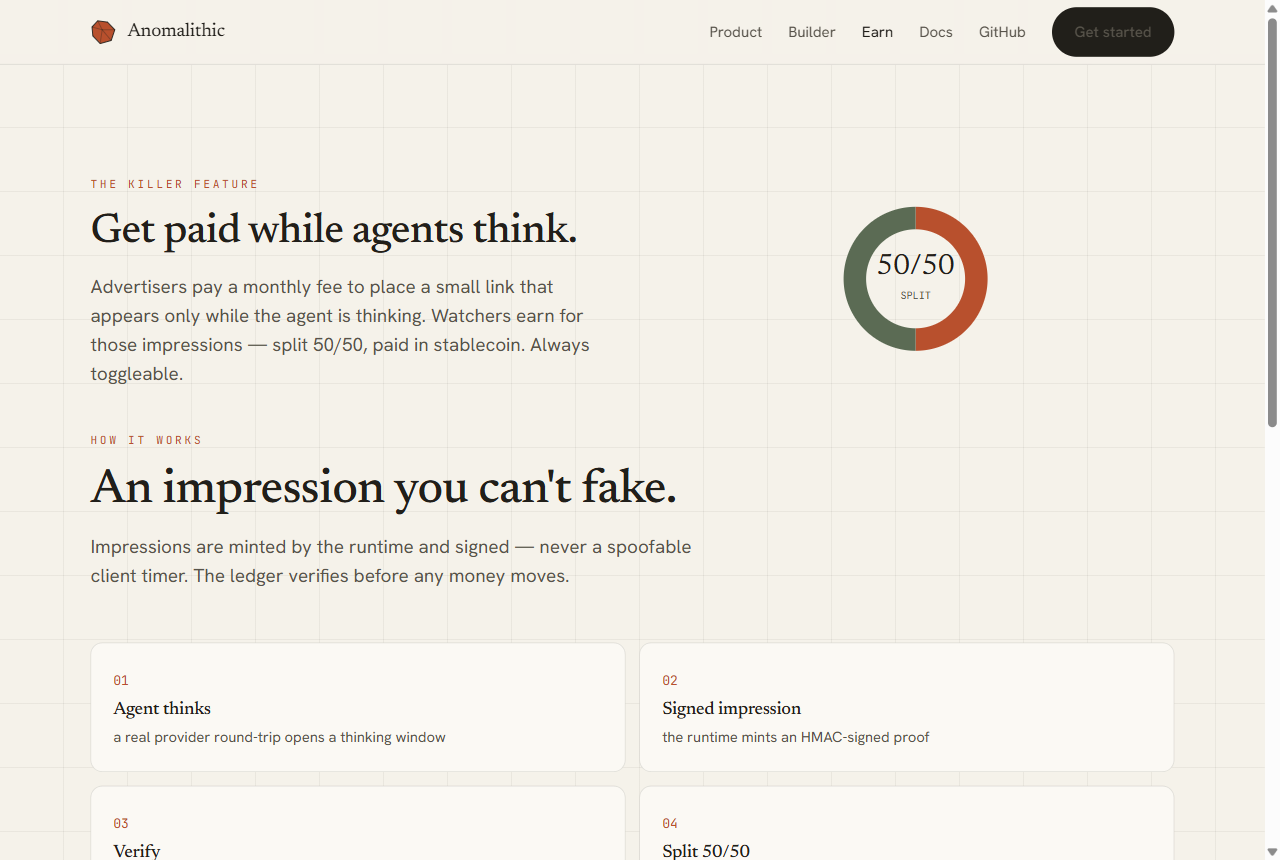
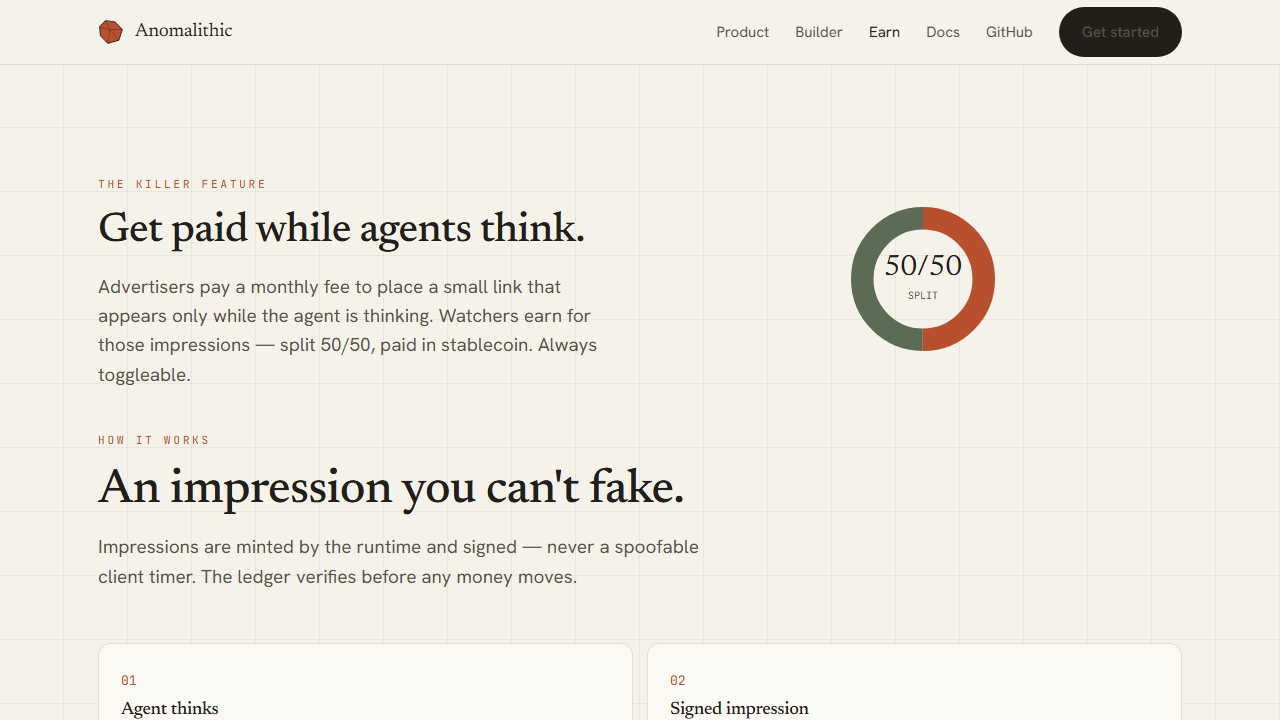
docs: real product screenshots + desktop section in README
- 6 Playwright screenshots captured from live site and local desktop app
  (home, product, builder, earn, docs, desktop) → docs/media/
- README: added desktop app section with screenshot, updated platforms list
- README: updated CLI demo block to show real verified output (Gemini + serve)
- Added scripts/screenshot.mjs for reproducible screenshot capture

diff --git a/README.md b/README.md
@@ -68,12 +68,18 @@ The product, running — a quiet ad shows only during the thinking window, and e
 window mints one signed impression:
 
 ```console
-$ anomalithic run "explain MCP" --ads
+$ anomalithic run -p google "explain MCP in one sentence" --ads
 ✦ thinking…
 💡 Your ad here while agents think — https://anomalithic.vercel.app/ads
-MCP is an open protocol that lets agents call external tools and data
-sources over a uniform JSON-RPC interface.
-[anthropic:claude-sonnet-4-6] 1 turn(s), 10+5 tokens, 1 impression(s)
+MCP (Model Context Protocol) is an open standard that lets AI agents
+call external tools and data sources over a uniform JSON-RPC interface.
+[google:gemini-2.5-flash] 1 turn(s), 12+8 tokens, 1 impression(s)
+
+$ anomalithic serve -p mock
+Anomalithic serve · http://127.0.0.1:4517 · mock:mock
+
+$ curl -s http://127.0.0.1:4517/health
+{"ok":true,"provider":"mock","model":"mock"}
 ```
 
 ## ✦ Quickstart
@@ -94,12 +100,17 @@ ANOMALITHIC_PROVIDER=openai OPENAI_BASE_URL=http://localhost:11434/v1 \
   node packages/cli/dist/index.js run -m llama3.1 "hi"
 ```
 
+## ✦ Desktop app
+
+<img src="./docs/media/desktop.png" alt="Anomalithic Desktop — dark UI with session chat and model selector" width="900" />
+
+Native shell ([`apps/desktop`](./apps/desktop)) — chat with the agent, switch models, browse memory and skills. The UI calls the local `anomalithic serve` runtime so **everything runs on your machine**.  A [release pipeline](./.github/workflows/release.yml) builds `.msi` / `.dmg` / `.deb` / AppImage on every tag.
+
 ## ✦ Platforms
 
-- **CLI + TUI** — `anomalithic run`, `chat`, full-screen `tui`, `serve` (local HTTP runtime), plus `skills` / `memory` / `mcp` / `plugins` _(shipping)_
-- **Desktop app** — Tauri shell ([`apps/desktop`](./apps/desktop)) with a [release pipeline](./.github/workflows/release.yml) that builds native Windows `.msi`, macOS `.dmg`, and Linux `.deb` / AppImage — see [docs/desktop.md](./docs/desktop.md) _(pipeline ready)_
-- **TUI** — full-screen interactive sessions _(roadmap)_
-- **Messaging gateway** — WhatsApp, Telegram, Slack, Discord, Signal _(roadmap)_
+- **CLI + TUI** — `anomalithic run`, `chat`, full-screen `tui`, `serve` (local HTTP runtime API), plus `skills` / `memory` / `mcp` / `plugins` / `sessions`
+- **Desktop app** — Tauri shell with dark UI; runtime sidecar via `anomalithic serve`; release pipeline builds native installers
+- **Messaging gateway** — Telegram, Slack, Discord adapters (WhatsApp / Signal roadmap)
 - **Mobile** — _(later)_
 
 See the full plan in [ROADMAP.md](./ROADMAP.md).